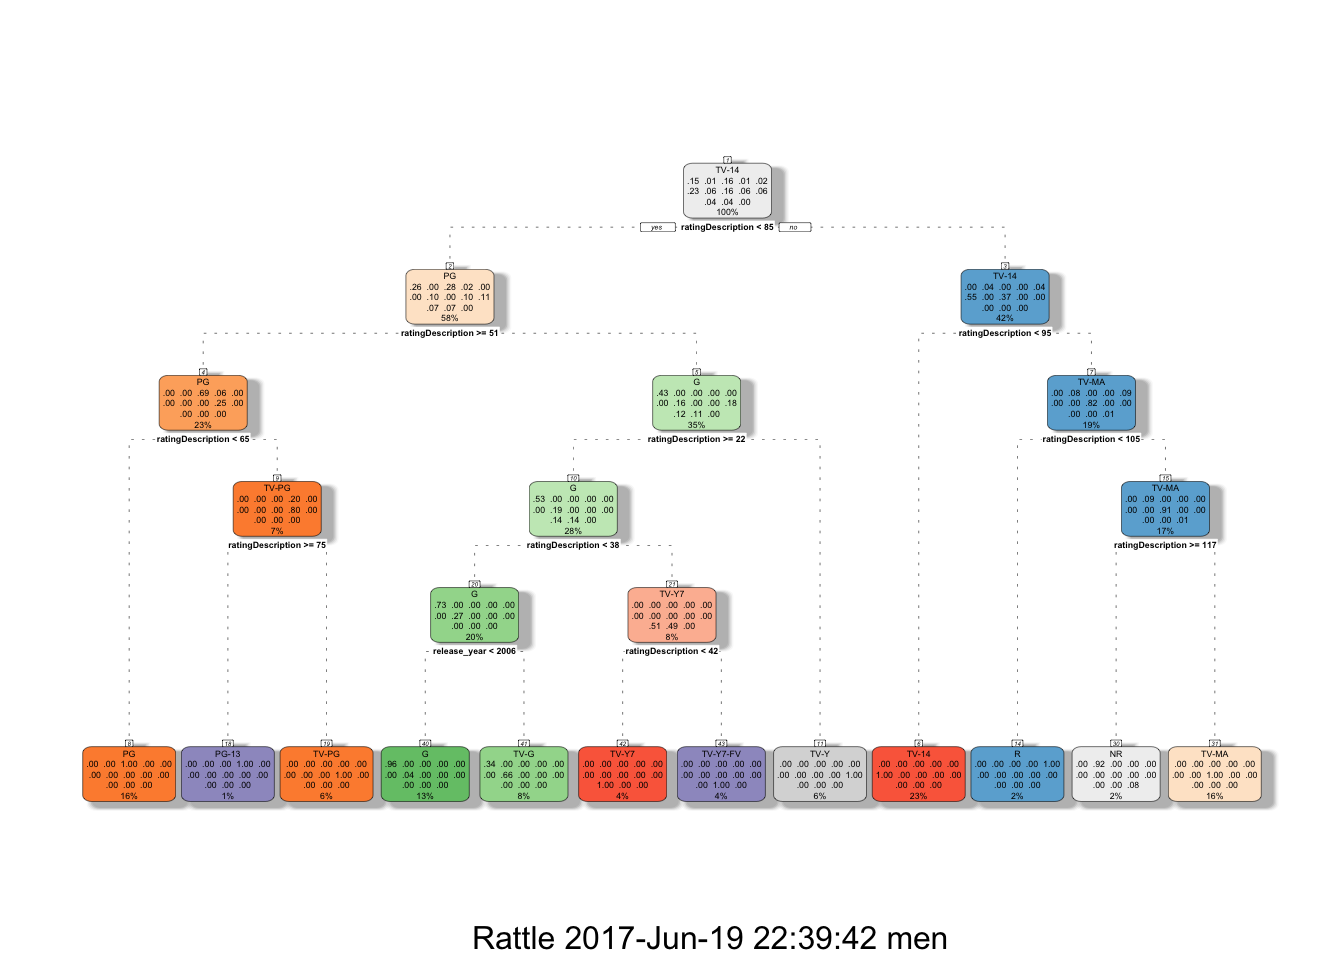
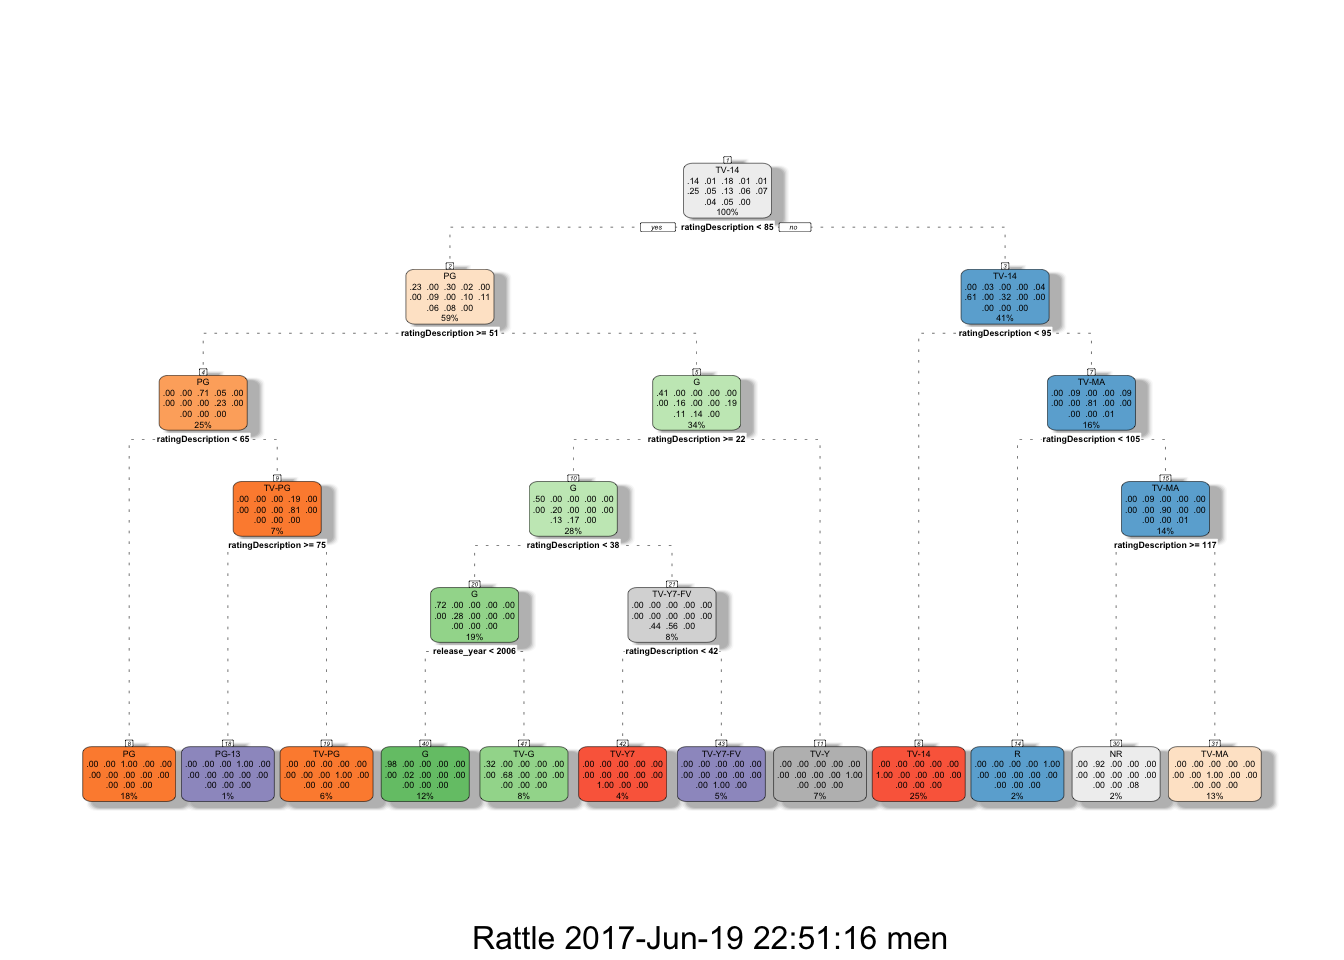
fixed picture problem

Changed region(s): [[0.5625, 0.7812, 0.6562, 0.8438], [0.4688, 0.5938, 0.5312, 0.6875], [0.5938, 0.9688, 0.6562, 1.0]]

diff --git a/content/post/2017-06-19-hw-post-06-19-17.html b/content/post/2017-06-19-hw-post-06-19-17.html
@@ -69,18 +69,18 @@ fancyRpartPlot(fit)</code></pre>
 table(test1$predict, test1$rating)</code></pre>
 <pre><code>##           
 ##             G NR PG PG-13  R TV-14 TV-G TV-MA TV-PG TV-Y TV-Y7 TV-Y7-FV UR
-##   G        16  0  0     0  0     0    0     0     0    0     0        0  0
-##   NR        0  2  0     0  0     0    0     0     0    0     0        0  0
-##   PG        0  0 43     0  0     0    0     0     0    0     0        0  0
+##   G        22  0  0     0  0     0    2     0     0    0     0        0  0
+##   NR        0  3  0     0  0     0    0     0     0    0     0        0  0
+##   PG        0  0 27     0  0     0    0     0     0    0     0        0  0
 ##   PG-13     0  0  0     4  0     0    0     0     0    0     0        0  0
-##   R         0  0  0     0  5     0    0     0     0    0     0        0  0
-##   TV-14     0  0  0     0  0    47    0     0     0    0     0        0  0
-##   TV-G      3  0  0     0  0     0    8     0     0    0     0        0  0
-##   TV-MA     0  0  0     0  0     0    0    22     0    0     0        0  0
-##   TV-PG     0  0  0     0  0     0    0     0    14    0     0        0  0
-##   TV-Y      0  0  0     0  0     0    0     0     0   17     0        0  0
-##   TV-Y7     0  0  0     0  0     0    0     0     0    0     6        0  0
-##   TV-Y7-FV  0  0  0     0  0     0    0     0     0    0     0       13  0
+##   R         0  0  0     0  7     0    0     0     0    0     0        0  0
+##   TV-14     0  0  0     0  0    36    0     0     0    0     0        0  0
+##   TV-G      5  0  0     0  0     0    7     0     0    0     0        0  0
+##   TV-MA     0  0  0     0  0     0    0    44     0    0     0        0  0
+##   TV-PG     0  0  0     0  0     0    0     0    12    0     0        0  0
+##   TV-Y      0  0  0     0  0     0    0     0     0   15     0        0  0
+##   TV-Y7     0  0  0     0  0     0    0     0     0    0     9        0  0
+##   TV-Y7-FV  0  0  0     0  0     0    0     0     0    0     0        7  0
 ##   UR        0  0  0     0  0     0    0     0     0    0     0        0  0</code></pre>
 </div>
 <div id="using-artifical-neural-networks" class="section level2">
@@ -118,7 +118,7 @@ form &lt;- as.formula(paste(&quot;user_rating_score ~&quot;, paste(n, collapse =
 nn &lt;- neuralnet(form,data=train.s,hidden=c(5,3),linear.output=T, stepmax = 10^6)
 plot(nn)</code></pre>
 <div class="figure">
-<img src="/static/images/plot.png" alt="Artifical Neutral Networks Plot" />
+<img src="/images/plot.png" alt="Artifical Neutral Networks Plot" />
 <p class="caption">Artifical Neutral Networks Plot</p>
 </div>
 <pre class="r"><code># Compute() in neuralnet pkg predicts the results using the neural network
@@ -133,5 +133,5 @@ test.r &lt;- (test.s$user_rating_score)*(max(netflix2$user_rating_score)-min(net
 #now we calculate the Mean Squared Error
 MSE.nn &lt;- sum((test.r - pr.nn_)^2)/nrow(test.s)
 MSE.nn</code></pre>
-<pre><code>## [1] 143.0844108</code></pre>
+<pre><code>## [1] 135.276787</code></pre>
 </div>
